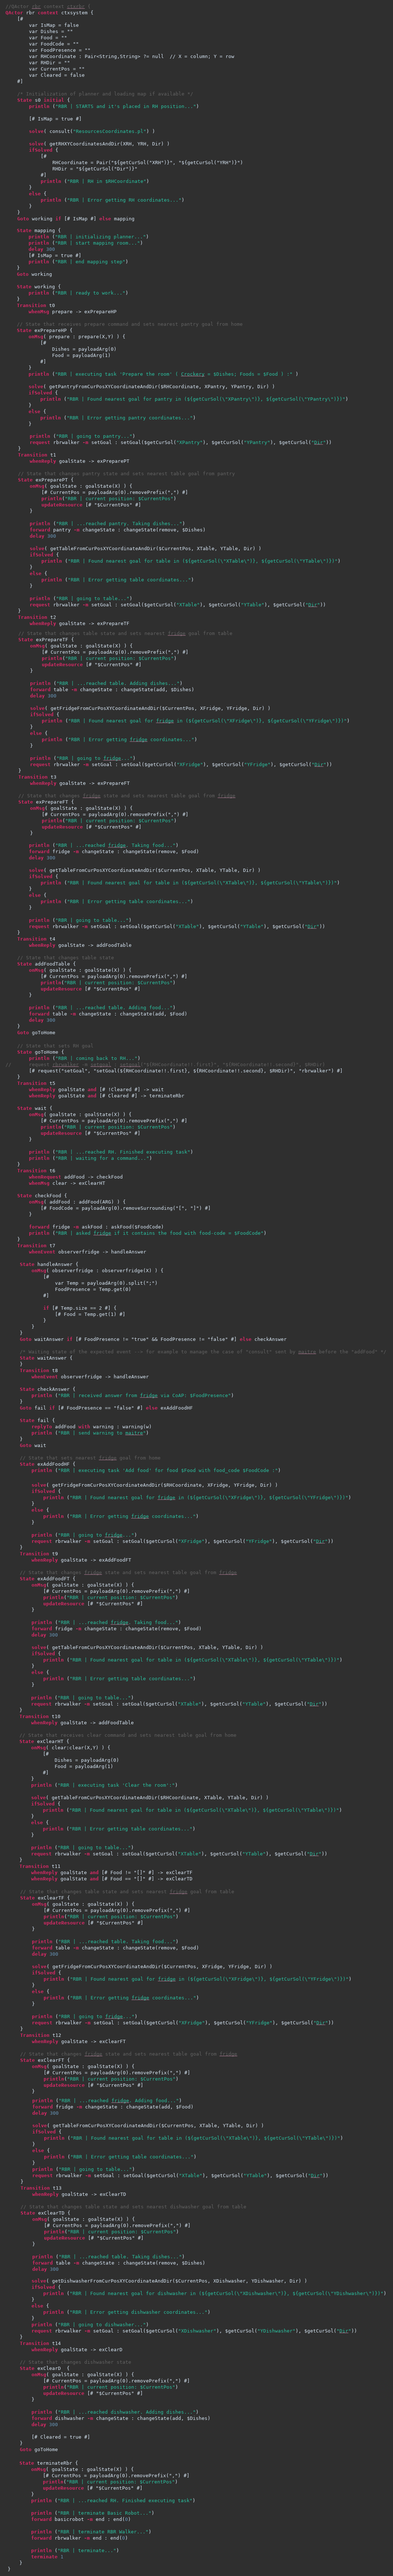
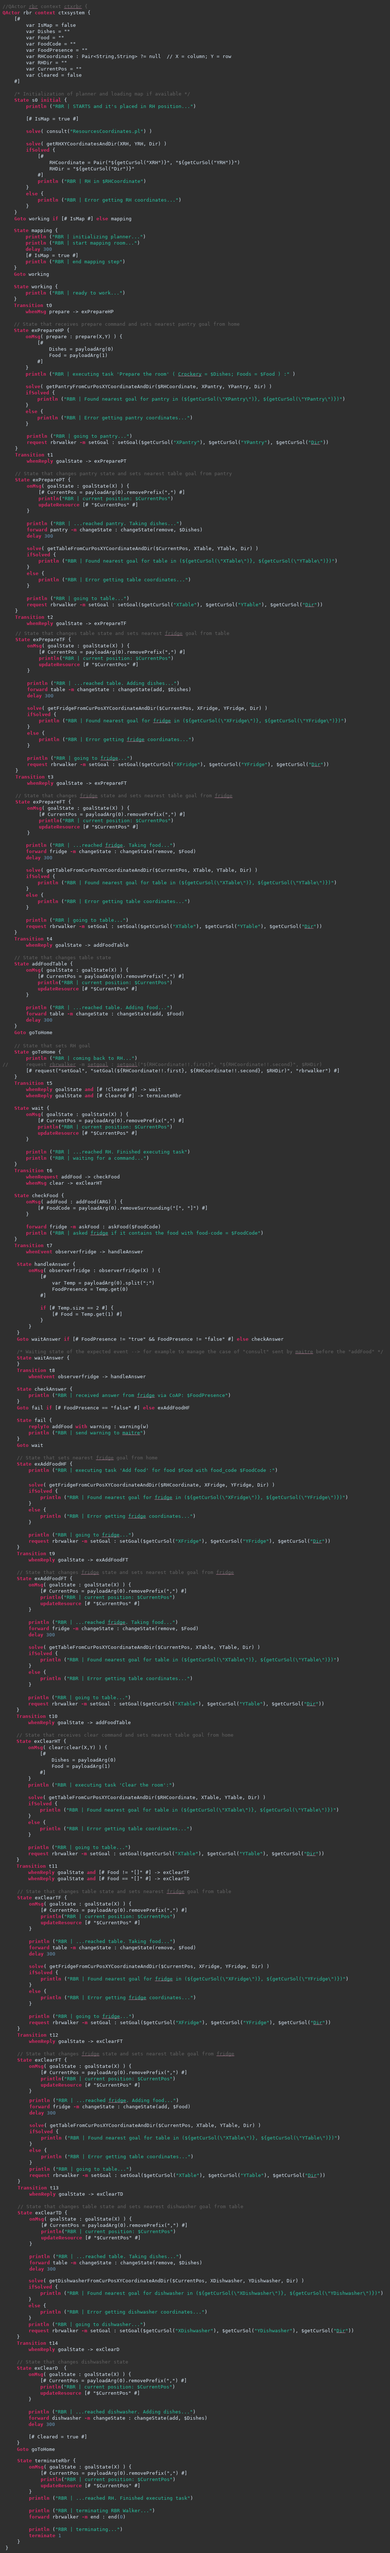
update SPRINT_1.html

Changed region(s): [[0.031, 0.0, 0.5273, 0.9988], [0.4652, 0.1249, 0.6203, 0.1561], [0.6203, 0.5619, 0.6513, 0.5931]]

diff --git a/Sprint_1/SPRINT_1/userDocs/SPRINT_1.html b/Sprint_1/SPRINT_1/userDocs/SPRINT_1.html
@@ -140,9 +140,10 @@ To make possible the consumption of the food on the <ks>table</ks>, it has been 
 
 To realize the project part about the planning it has been necessary, in a first phase, to design and create a project <a href="https://github.com/bluffgnuff/RomeoRussoISS2021/tree/master/Sprint_1/MapBinGenerator" target="_blank">MapBinGenerator</a> able to create a binary file of the logical map useful for the <tt>Planner</tt> component which take it as input for the command <em>loadRoomMap</em>.
 <br><br>
-In a second phase, it seems to be more appropriate to create an other <tt>actor</tt> (<k>rbrwalker</k>) in <k>rbr</k> <tt>context</tt> (<k>ctxrbr</k>) which takes care of the planning and communicating with the <k>basicrobot</k> <tt>actor</tt> to make the robot perform the movements, whether it is <tt>virtual</tt> or <tt>real</tt>; in this case <tt>virtual</tt>.
+In a second phase, it seemed to be more appropriate to create another <tt>actor</tt> (<k>rbrwalker</k>) in <k>rbr</k> <tt>context</tt> (<k>ctxrbr</k>) which takes care of the planning and communicating with the <k>basicrobot</k> <tt>actor</tt> to make the robot perform the movements, whether it is <tt>virtual</tt> or <tt>real</tt>; in this case <tt>virtual</tt>.<br>
+In this way, the <k>rbr</k> <tt>actor</tt> has the task of communicating the nearest goal coordinates to the <k>rbrwalker</k> <tt>actor</tt>, waiting for an answer and subsequently updating the goal resource state.
 <br><br>
-To take the coordinates of the possible goals for the <ks>tasks</ks> paths, also useful for the command <em>planForGoal</em> used by the <tt>Planner</tt> to found the sequence of actions the <k>basicrobot</k> must execute, it has been created a <tt>prolog</tt> file <a href="https://raw.githubusercontent.com/bluffgnuff/RomeoRussoISS2021/master/Sprint_1/SPRINT_1/ResourcesCoordinates.pl" target="_blank">ResourcesCoordinates.pl</a>. In particular, this file manages the possible goals, that are the coordinates of the <ks>RH</ks> cell and of the cells close to the resources (<ks>pantry</ks>, <ks>dishwasher</ks>, <ks>table</ks> and <ks>fridge</ks>) that the robot could occupy, and provides to the <k>rbr</k> the nearest goal to the robot current position.
+To take the coordinates of the possible goals for the <ks>tasks</ks> paths, it has been created a <tt>prolog</tt> file <a href="https://raw.githubusercontent.com/bluffgnuff/RomeoRussoISS2021/master/Sprint_1/SPRINT_1/ResourcesCoordinates.pl" target="_blank">ResourcesCoordinates.pl</a>. In particular, this file manages the possible goals, that are the coordinates of the <ks>RH</ks> cell and of the cells close to the resources (<ks>pantry</ks>, <ks>dishwasher</ks>, <ks>table</ks> and <ks>fridge</ks>) that the robot could occupy, and provides to the <k>rbr</k> the nearest goal to the robot current position.
 
 <h4><a name="mapBinGen"></a>MapBinGenerator</h4>
 
@@ -209,6 +210,12 @@ Reached the required goal, the <tt>actor</tt> <k>rbrwalker</k> <ko>reply</ko> to
 </tr>
 </table>
 
+<h4>Actors Termination</h4>
+
+As it can be seen from the images of the behavior of the two <tt>actors</tt>, modeled as a <tt>Moore state machine</tt>, termination states (<kc>terminateRbr</kc> and <kc>terminateWalker</kc>) has also been added. In the <kc>terminateRbr</kc> state, the <k>rbr</k> sends first a <ko>dispatch</ko> <em>end</em> to the <k>rbrwalker</k> and then it terminate itself. In the <kc>terminateWalker</kc> state, the <k>rbrwalker</k>, received the <ko>dispatch</ko> <em>end</em> from the <k>rbr</k>, sends a <ko>dispatch</ko> <em>end</em> to the <k>basicrobot</k> and then terminate itself.
+<br><br>
+Regarding the other actors, the <k>foodconsumer</k> and the <k>maitre</k>, which are <tt>mock actors</tt>, terminate themself after the execution of their task; while the resources <tt>actors</tt> never end.
+
 <h3>WEnv Scene for Virtual Robot</h3>
 
 To make possible the simulation of the <tt>virtual robot</tt> on its <tt>WEnv</tt>, starting from the <a href="../../../ProblemAnalysisModel/userDocs/utils/tf/sceneConfig.js" target="_blank">example</a> provided by the customer with the <a href="../../../ProblemAnalysisModel/userDocs/utils/tf/TemaFinaleBo19.html" target="_blank">requirements text</a>, it's been realized a scene <a href="../sceneConfig.js" target="_blank">sceneConfig.js</a> that reflects the logic map as much as possible.
@@ -216,21 +223,20 @@ To make possible the simulation of the <tt>virtual robot</tt> on its <tt>WEnv</t
 <table>
 <tr class="text">
 	<th>WEnv</th>
-	<th>Starting room layout from requirements text</th>
 	<th>Map generated with the MapBinGenerator</th>
+	<th>Starting room layout from requirements text</th>
 </tr>
 <tr>
-	<td class="text">
-		<img src="./utils/img/WEnvGimp.png" alt="WEnv">
-		<img src="./utils/img/WEnv2.png" alt="WEnv">
+	<td>
+		<img src="./utils/img/WEnv.png" alt="WEnv">
 	</td>
-	<td class="imageScenario">
-		<img src="../../../userDocs/utils/tf/roomLayout.png" alt="Room Layout from requirements text">
+	<td class="wenv">
+		<a href="../roomMap.txt" target="_blank">roomMap.txt</a><br>
+		<pre><iframe class="mapWenv" src="../roomMap.txt" title="roomMap">roomMap.txt</iframe>
+		<img src="./utils/img/MapLegend.png" alt="Map Legend"></pre>
 	</td>
 	<td class="image">
-		<a href="../roomMap.txt" target="_blank">roomMap.txt</a><br>
-		<pre><iframe class="map" src="../roomMap.txt" title="roomMap">roomMap.txt</iframe>
-		<img src="./utils/img/MapLegend.png" alt="Map Legend"></pre>
+		<img src="../../../userDocs/utils/tf/roomLayout.png" alt="Room Layout from requirements text">
 	</td>
 </tr>
 </table>
@@ -247,7 +253,18 @@ Below there are exposed some tests made for this sprint project:
 	<br>
 	<dt><a href="../test/it/unibo/test/PrepareTest.kt" target="_blank">PrepareTest.kt</a></dt>
 	<dd>Functional tests about the correct execution of the <ks>Prepare the room</ks> <ks>task</ks>:<ol>
-		<li><em>PrepareTest</em>: after the send of a <em>prepare</em> command to the <k>rbr</k>, which runs the <ks>Prepare the room</ks> <ks>task</ks>, it's verified that the final robot position is the <ks>RH</ks> position.</li>
+		<li><em>PrepareTest</em>: after the send of a <em>prepare</em> command to the <k>rbr</k>, which runs the <ks>Prepare the room</ks> <ks>task</ks>, it's verified that, for each sub-path the robot must execute, the final position of the robot is the expected one and that the reached resource state has been changed. In particular this test:<ol>
+			<li>Sends a <em>prepare</em> message to <k>rbr</k> <tt>actor</tt>;</li>
+			<li>Checks the robot position from the <k>rbrwalker</k> state is the expected cell in front of <ks>pantry</ks>;</li>
+			<li>Checks result of crockery remove from pantry</li>
+			<li>Checks rbrwalker position is the expected cell  in front of table</li>
+			<li>Checks result of crockery adding in table</li>
+			<li>Checks rbrwalker position is the expected cell  in front of fridge</li>
+			<li>Checks result of food removing in fridge</li>
+			<li>Checks rbrwalker position is the expected cell  in front of table</li>
+			<li>Checks result of food adding in table</li>
+			<li>Checks rbrwalker position is the Robot Home cell</li>
+		</ol></li>
 	</ol></dd>
 	<br>
 	<dt><a href="../test/it/unibo/test/AddFoodTest.kt" target="_blank">AddFoodTest.kt</a></dt>
@@ -260,6 +277,8 @@ Below there are exposed some tests made for this sprint project:
 		<li><em>ClearTest</em>: after the send of a <em>clear</em> command to the <k>rbr</k>, sent after the <em>prepare</em> command, which runs the <ks>Cleare the room</ks> <ks>task</ks>, it's verified that the final robot position is the <ks>RH</ks> position.</li>
 	</ol></dd>
 </dl>
+<br>
+These tests are executed on a single <tt>context</tt> (<k>ctxsystem</k>) and to execute them, it's necessary to comment the <k>maitre</k>, because it is a <tt>mock client</tt> and it could interfere with tests.
 
 <h2>Model of System's Logical Architecture</h2>
 

diff --git a/Sprint_1/SPRINT_1/userDocs/utils/style.css b/Sprint_1/SPRINT_1/userDocs/utils/style.css
@@ -103,7 +103,7 @@ ks {
 	font-size: 90%;
 }
 
-/*for the node names*/
+/*for the node names and FSM state*/
 kc {
 	font-family: "Arial";
 	font-weight: bold;
@@ -232,6 +232,11 @@ td.text {
 	text-align: center;
 }
 
+td.wenv {
+	text-align: center;
+	width: 20%;
+}
+
 tr.text {
 	text-align: center;
 }
@@ -269,7 +274,7 @@ iframe.qakProblem {
 }
 
 iframe.qakImage {
-	height: 500px;
+	height: 630px;
 }
 
 iframe.qakSprint {
@@ -279,6 +284,11 @@ iframe.qakSprint {
 iframe.map {
 	height: 136px;
 	width: 50%;
+}
+
+iframe.mapWenv {
+	height: 136px;
+	width: 78%;
 }
 
 img {

diff --git a/Sprint_1/SPRINT_1/src/it/unibo/rbr/Rbr.kt b/Sprint_1/SPRINT_1/src/it/unibo/rbr/Rbr.kt
@@ -396,11 +396,9 @@ class Rbr ( name: String, scope: CoroutineScope  ) : ActorBasicFsm( name, scope 
 								)
 						}
 						println("RBR | ...reached RH. Finished executing task")
-						println("RBR | terminate Basic Robot...")
-						forward("end", "end(0)" ,"basicrobot" ) 
-						println("RBR | terminate RBR Walker...")
+						println("RBR | terminating RBR Walker...")
 						forward("end", "end(0)" ,"rbrwalker" ) 
-						println("RBR | terminate...")
+						println("RBR | terminating...")
 						terminate(1)
 					}
 				}	 

diff --git a/Sprint_1/SPRINT_1/src/it/unibo/rbrwalker/Rbrwalker.kt b/Sprint_1/SPRINT_1/src/it/unibo/rbrwalker/Rbrwalker.kt
@@ -124,7 +124,9 @@ class Rbrwalker ( name: String, scope: CoroutineScope  ) : ActorBasicFsm( name, 
 				}	 
 				state("terminateWalker") { //this:State
 					action { //it:State
-						println("WALKER | terminate...")
+						println("RBR | terminating Basic Robot...")
+						forward("end", "end(0)" ,"basicrobot" ) 
+						println("WALKER | terminating...")
 						terminate(1)
 					}
 				}	 
